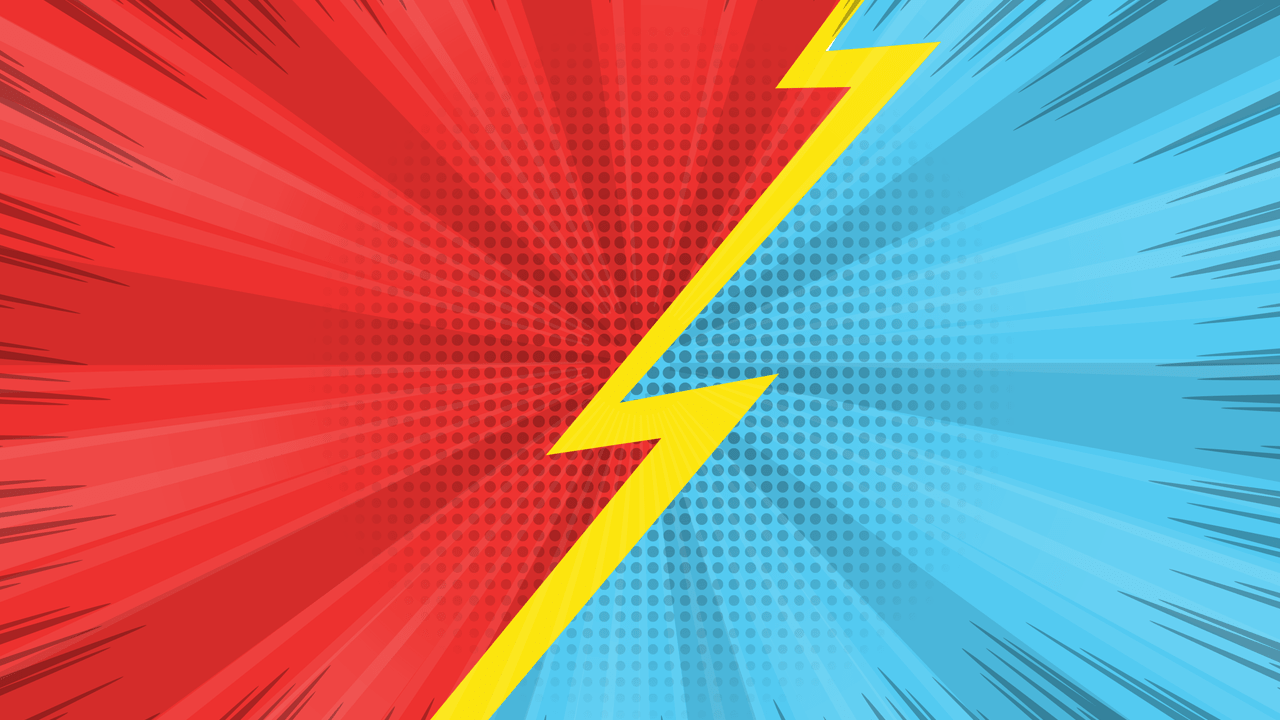
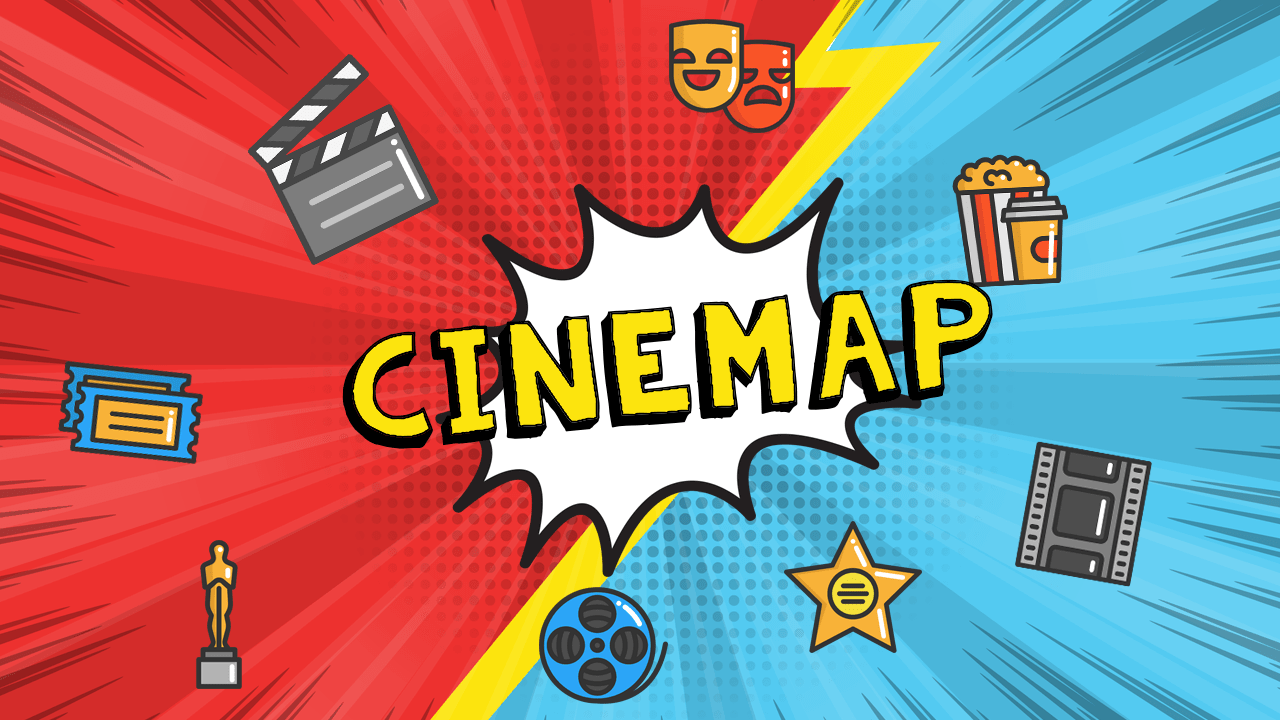
Mudança header

diff --git a/static/js/scripts.js b/static/js/scripts.js
@@ -282,48 +282,6 @@ $("#cep").focusout(function(){
 	});
 });
 
-/////////////// SCRIPT PARALLAX
-$('#parallax').mousemove(
-	function(e){
-		/* Detecta a posição do mouse */
-		var offset = $(this).offset();
-		var xPos = e.pageX - offset.left;
-		var yPos = e.pageY - offset.top;
-
-		/* Pega a posição em porcentagem */
-		var mouseXPercent = Math.round(xPos / $(this).width() * 50);
-		var mouseYPercent = Math.round(yPos / $(this).height() * 50);
-
-		/* Posiciona cada camada */
-		$(this).children('img').each(
-			function(){
-				var diffX = $('#parallax').width() - $(this).width();
-				var diffY = $('#parallax').height() - $(this).height();
-
-				var myX = diffX * (mouseXPercent / 50);
-
-				var myY = diffY * (mouseYPercent / 50);
-
-				var cssObj = {
-					'left': myX + 'px',
-					'top': myY + 'px'
-				}
-				$(this).animate({
-					left: myX, 
-					top: myY
-				},
-				{
-					duration: 50, 
-					queue: false, 
-					easing: 'linear'
-				});
-
-			}
-		);
-
-	}
-);
-
 /////////////// SLIDER QUANTIDADE DE LOCAIS - FILTROS INDEX
 var slider = document.getElementById("range-places");
 var output = document.getElementById("count-places");

diff --git a/static/styles/styles.css b/static/styles/styles.css
@@ -303,9 +303,7 @@ header .main-menu > li > a:hover:after{ transform: translateX(0%); opacity: 1; }
 .main-slider:after{ content:''; position: absolute; top: 0; bottom: 0; left: 0; right: 0; opacity: .7;
 	z-index: -1;}
 
-#parallax { background-color: #ed312f; height: 100%; margin: auto; overflow: hidden; position: relative;}
-
-#parallax img {	position: absolute;	top: 0;	left: 0;}
+#parallax { background-color: #ed312f; margin: auto; overflow: hidden; position: relative;}
 
 #parallax-mobile{ display: none;}
 

diff --git a/templates/template/header-principal.html b/templates/template/header-principal.html
@@ -2,10 +2,6 @@
 <div id="parallax">
   {# IMAGEM DE FUNDO #}
   <img src="{{ url_for('static', filename='imgs/background.png') }}">
-  {# IMAGEM COM ICONES #}
-  <img style="width:95%" src="{{ url_for('static', filename='imgs/icones.png') }}" />
-  {# LOGO #}
-  <img style="width:90%" src="{{ url_for('static', filename='imgs/logo.png') }}" />
 </div>  
 
 {# REMOVE PARALLAX NOS MOBILES #}

diff --git a/templates/template.html b/templates/template.html
@@ -1,5 +1,5 @@
 <!DOCTYPE html>
-<html>
+<html lang="bzs">
     <head>
         <meta http-equiv="X-UA-Compatible" content="IE=edge">
         <meta name="viewport" content="width=device-width, initial-scale=1">
